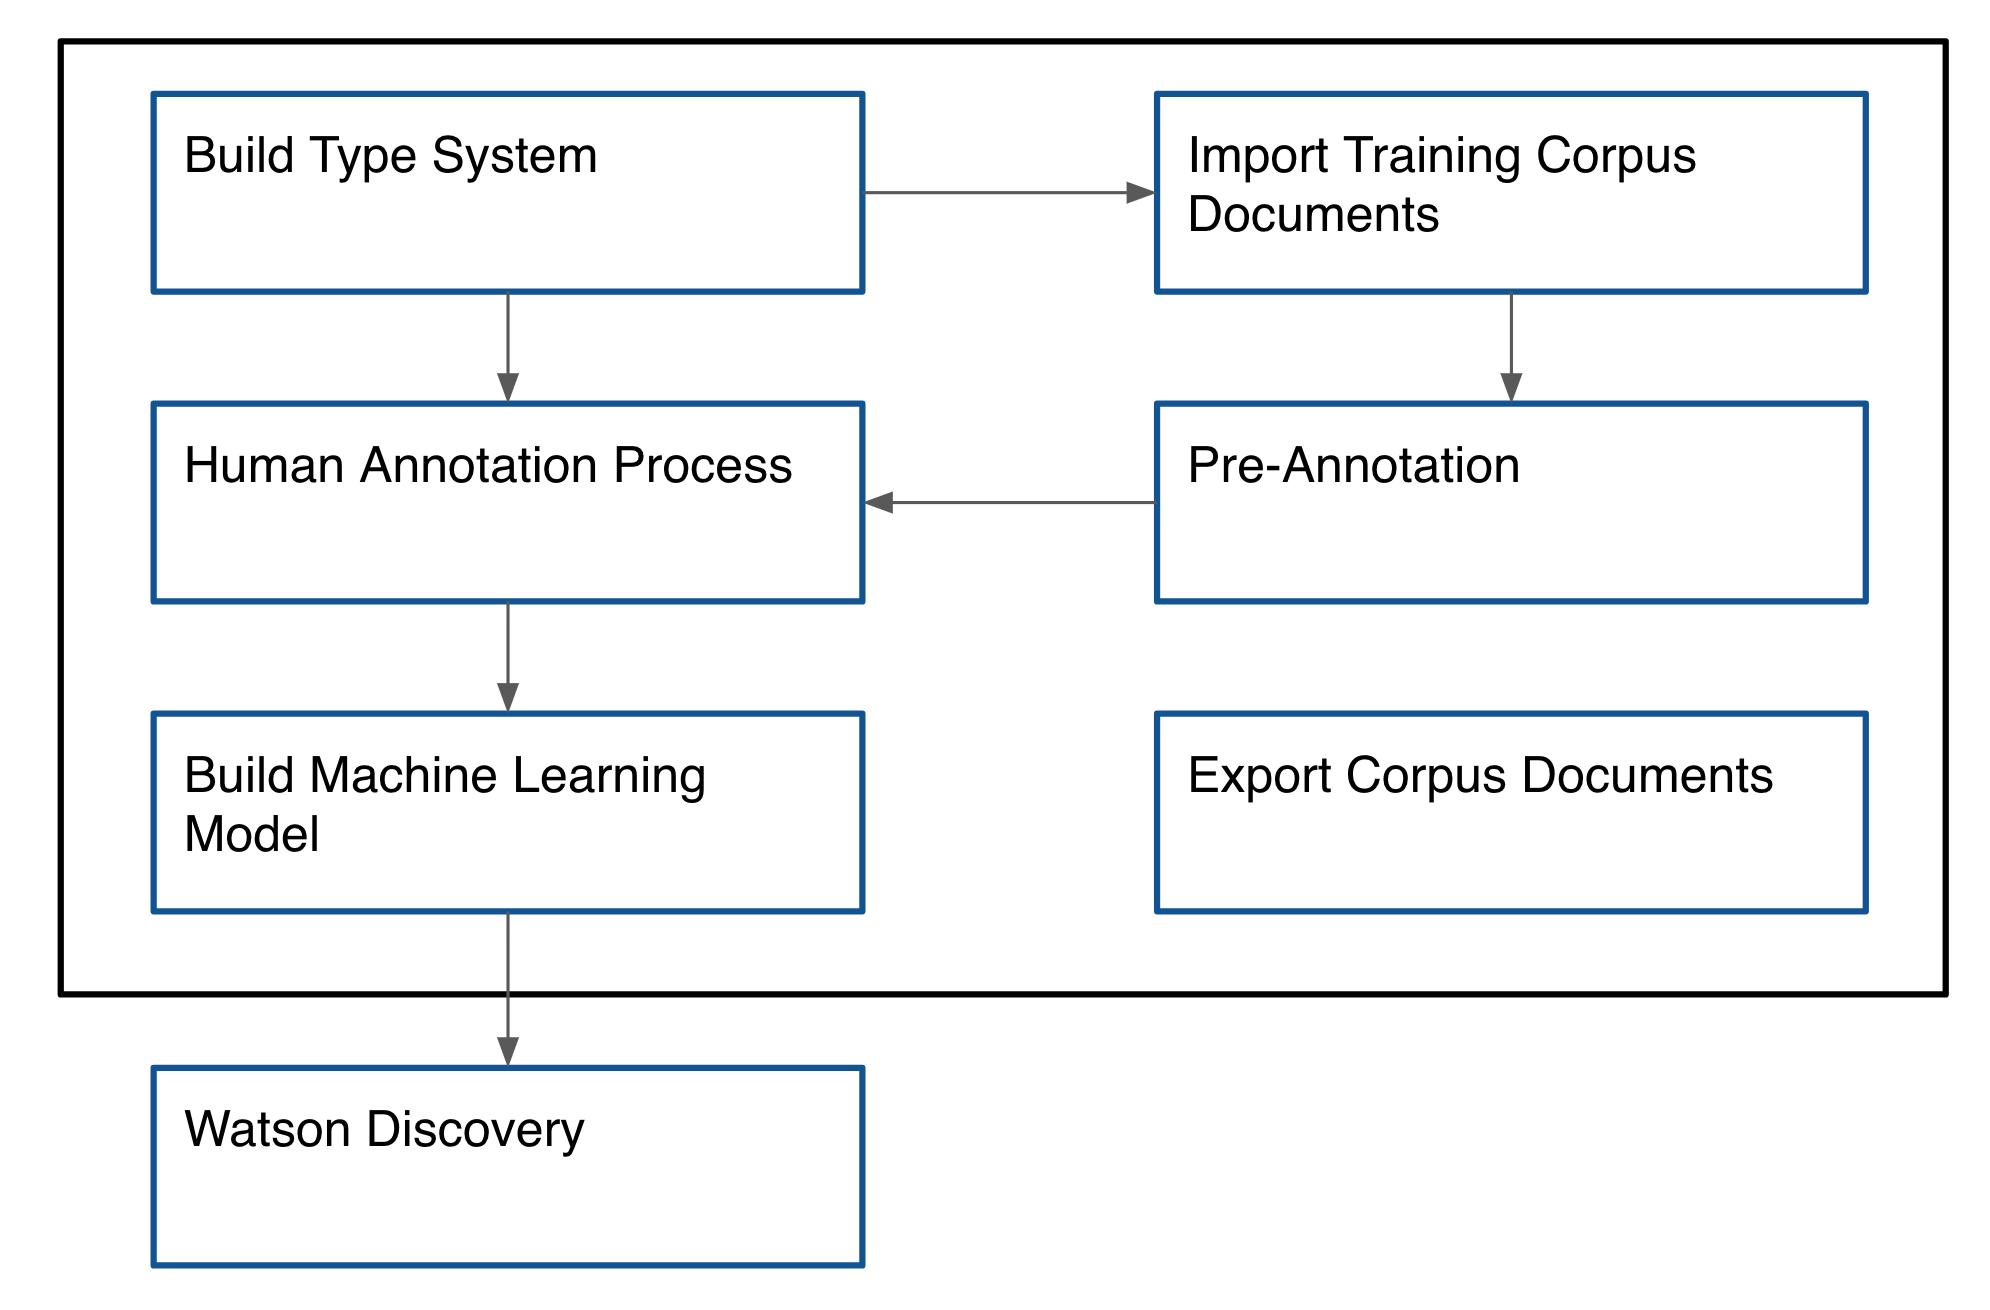
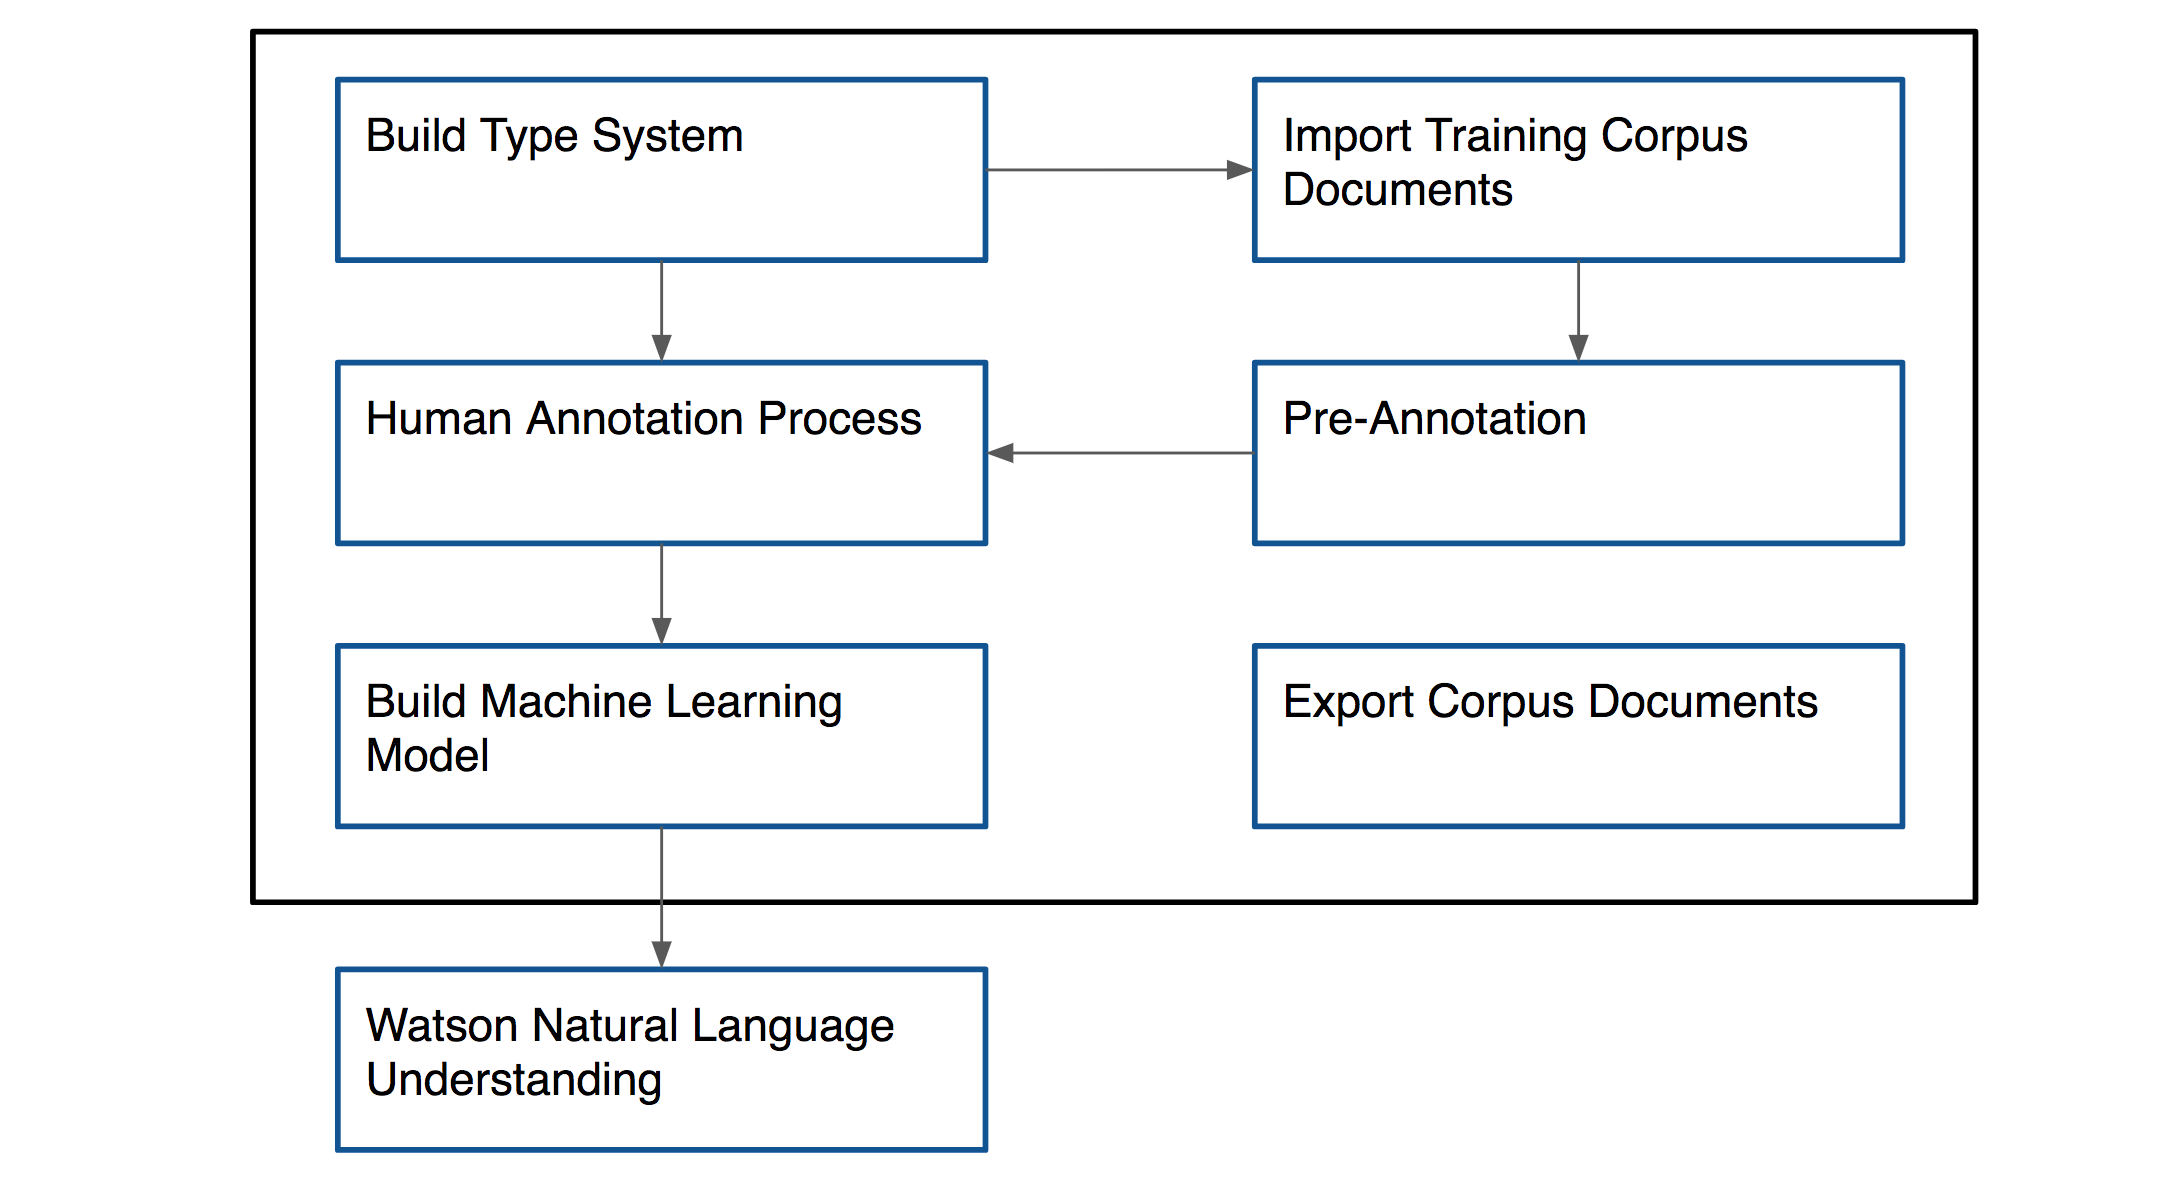
Image changes

Changed region(s): [[0.0312, 0.0, 0.997, 0.9763], [0.0623, 0.2746, 0.4673, 0.4881]]

diff --git a/README.md b/README.md
@@ -12,7 +12,7 @@
 
 ### How does Watson Knowledge Studio work?
 
-The image below explains the process of how Watson Knowledge Studio works in light detail. For greater detail see Steps [4. Upload Type System](#4-upload-type-system) through [9. Deploy the machine learning model to Watson Natural Language Understanding](#9-deploy-the-machine-learning-model-to-nlu).
+The image below explains the process of how Watson Knowledge Studio works in light detail. For greater detail see Steps [4. Upload Type System](#4-upload-type-system) through [9. Deploy the machine learning model to Watson Natural Language Understanding](#Step-45-deploy-model-to-nlu-instance).
 
 ![](images/process_flow.png)
 
